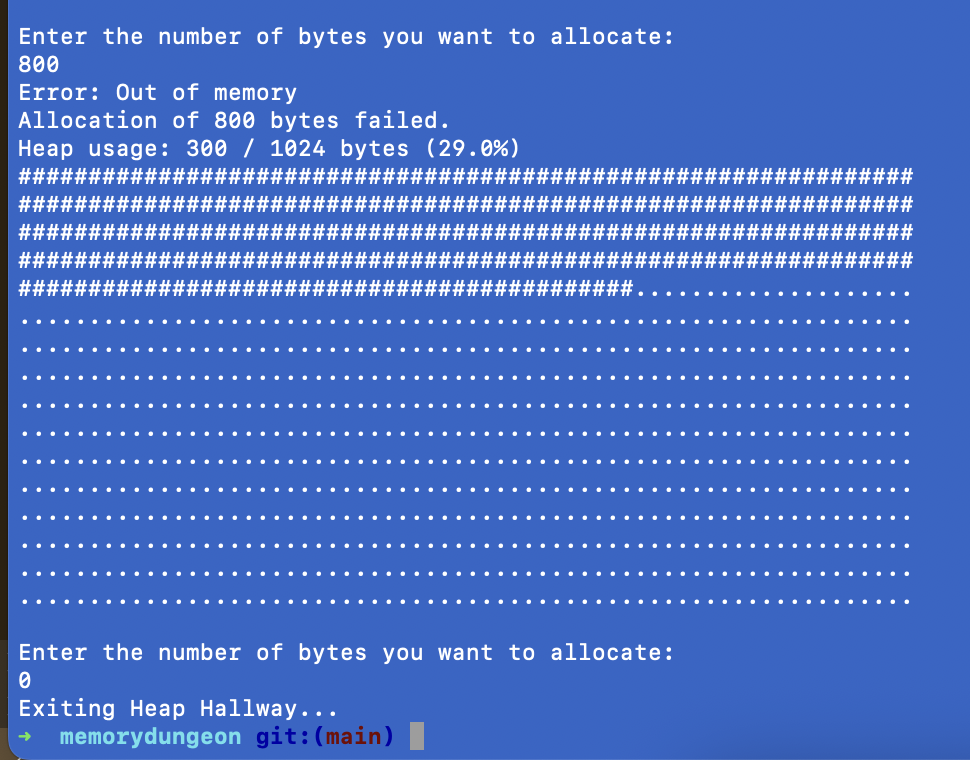
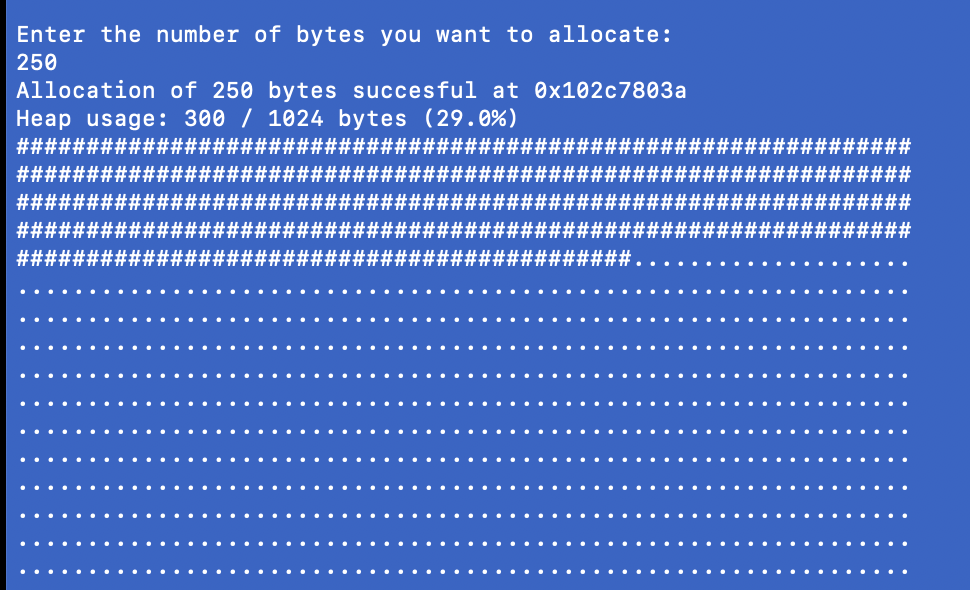
new blog article addition

Changed region(s): [[0.0, 0.0, 0.9588, 1.0]]

diff --git a/src/content/blog/someassemblyrequired.md b/src/content/blog/someassemblyrequired.md
@@ -212,7 +212,7 @@ We call that human-readable language **assembly language** and it's about as clo
 
 Alright, now it's time to break out **Memory Dungeon** and dive a little deeper into the main sections of memory you're gonna be playing in.
 
-![heaphallway](/imagesforarticles/heaphallway.png)
+![heaphallway](/imagesforarticles/heaphallway1.png)
 
 Like we referenced above, the heap is a section of memory that we can **dynamically allocate and free** in our program and needs *active management* on our part to avoid problems at runtime.
 
@@ -238,6 +238,9 @@ You're asking the OS (the hotel manager in our analogy) to book and take up 50 r
 
 You can see once I type in 50 and hit enter, 50 **#** symbols appear in our block of **.** symbols, representing 50 bytes of heap memory being taken up. The heap has *grown upwards* by 50 bytes!
 
+![heaphallway](/imagesforarticles/heaphallway2.png)
+
+
 The program will then ask you again for a number of bytes to allocate - I chose 250 here, but again, any number between 1 and 974 would work here (because we allocated 50 already). 
 
 You can easily see that a *lot more* **#** symbols appear in the grid, representing the 300 bytes of heap memory we've allocated. The heap has grown upwards by 250 bytes!
@@ -246,7 +249,7 @@ What about if we want to allocate another *800 bytes?*
 
 Anyone who has finished basic math will go *"Hang on a sec, 300 + 800 = 1100. 1100 > 1024, so what happens when we run out of rooms?"*
 
-![heaphallway2](/imagesforarticles/heaphallway2.png)
+![heaphallway2](/imagesforarticles/heaphallway3.png)
 
 
 If you keep asking for more and more rooms, eventually the hotel manager (your OS) will throw up their hands, like so:
